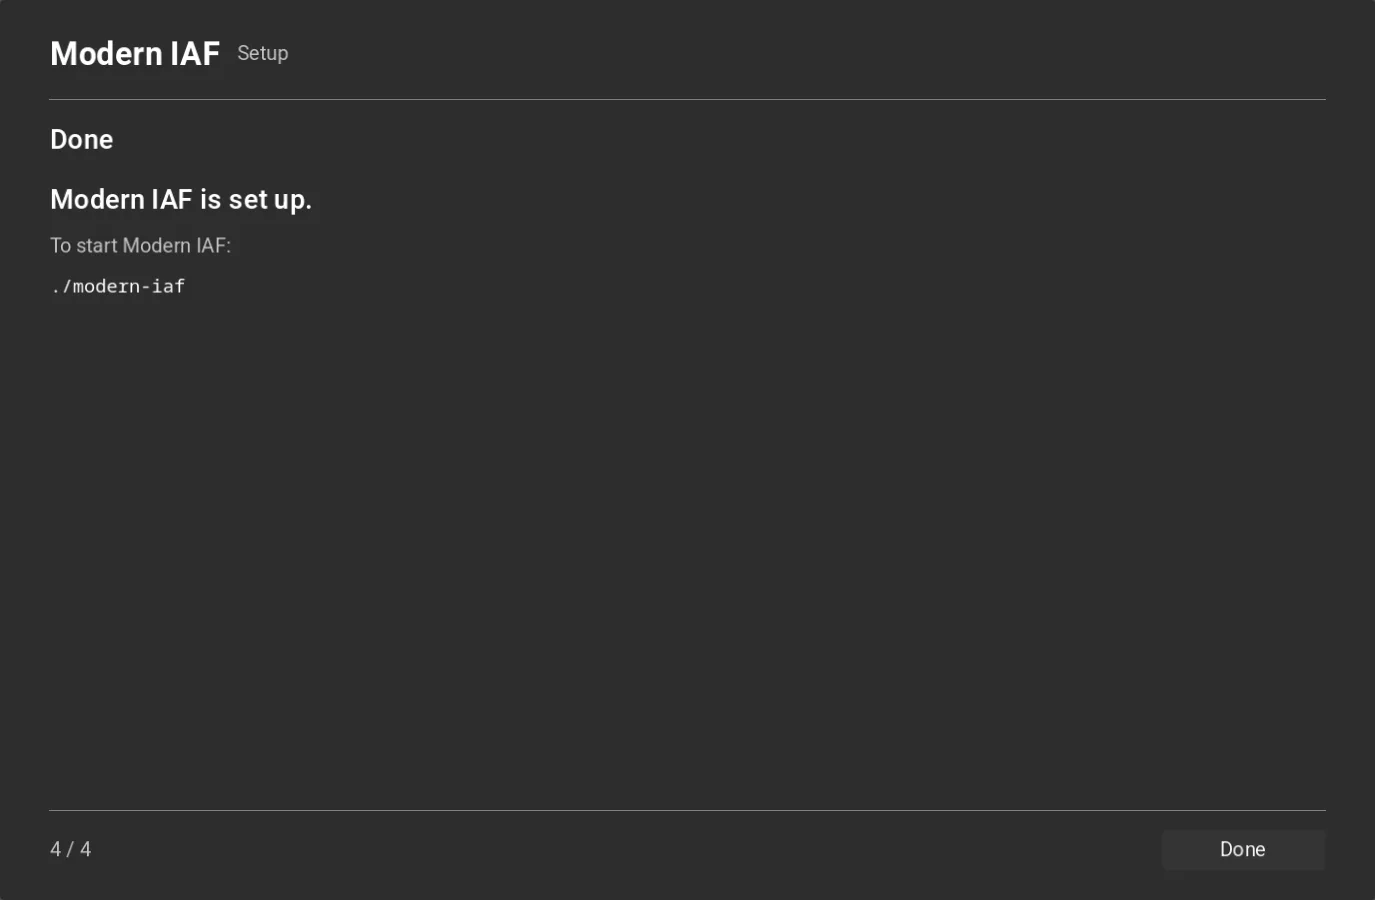
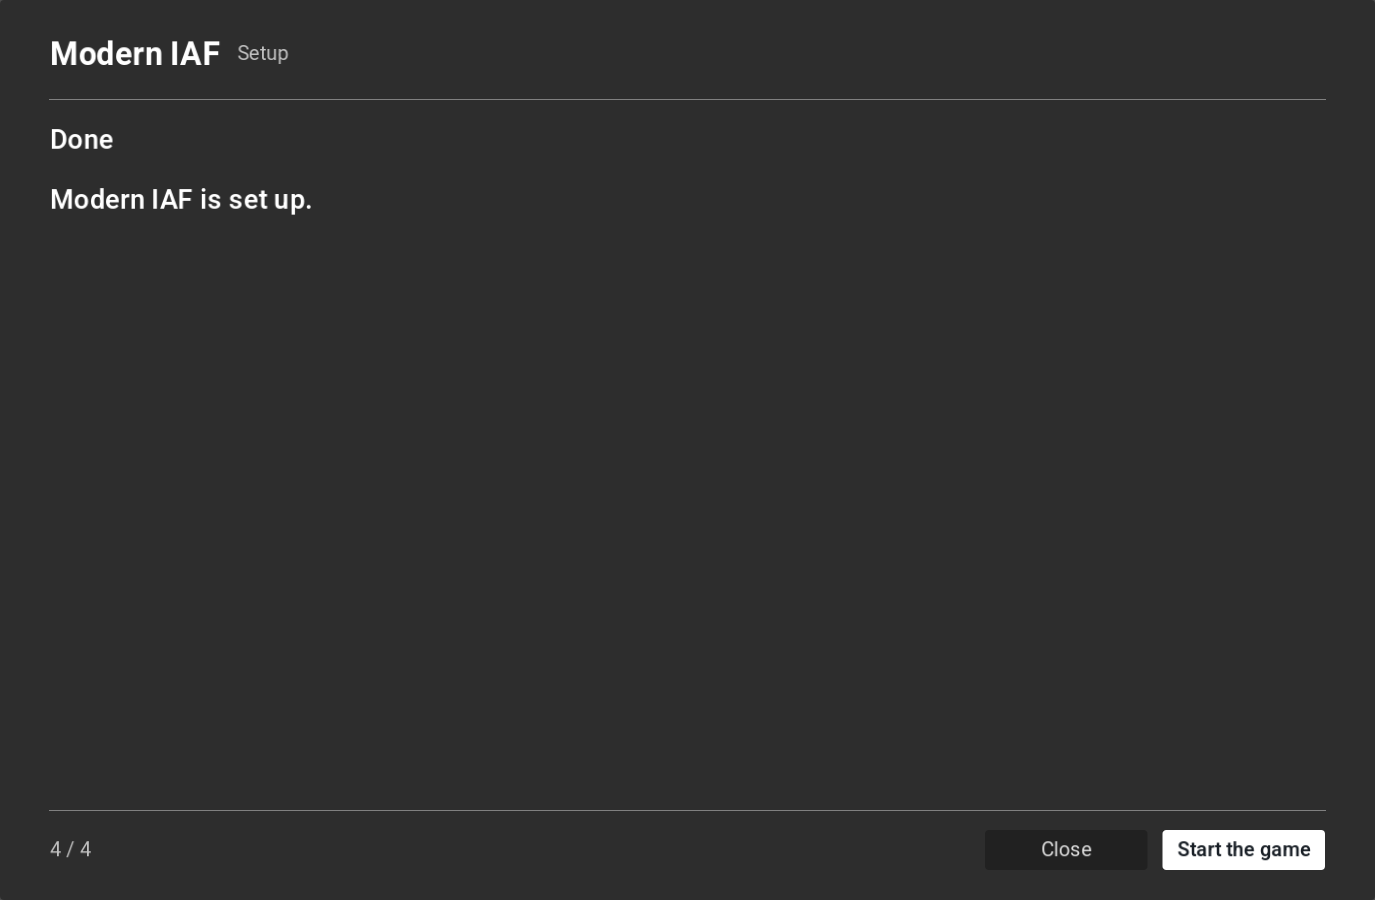
Modern IAF setup wizard: "Start the game" on the Done page, and an honest time left ("this step" / "all steps")
The user's Mac run: the terrain step's log said "about 9 min left" while the wizard said about 2:50 hours. The wizard
had no total. The 2:50 was the terrain step's own row: with the Survey chosen, the step's bar gives the download
about 9 % and the Survey's 2 m part a fixed 75 min (part_ends). The download ran at 5.3 MB/s, not the assumed 13.8,
so the row stretched the step's ~80 min still to come to about 2:50. The 9 min covered the download only (inferred
from the code).

Now the step's row says "this step". A new "all steps" line sums each unfinished step's seconds measured on earlier
runs (an up-to-date step counts 0), or shows "step N of M" when a step never ran on this machine (iaf_setup::time_left,
sim_expected). Each finished step writes its seconds to <step>.secs (temp file then rename; a corrupt one reads as
never measured), outside the stamp, so it never decides a rebuild or a download. tools/guide_shots.sh's assets
fingerprint skips .secs files. The original game's uninstall removes its install.secs and v1.1.secs.

The user: "setup should have 'start the game' instead of instructions how to start it". The Done page has a primary
"Start the game" / "להתחיל לשחק" button (a new Primary style in wizard_theme.gd) that opens the front end in the same
process with the project's window and full-screen setting, and "Close". The run instructions are gone.
tools/launch-wizard.sh sets SDL_JOYSTICK_MFI=0 on macOS, as ./modern-iaf does.
[…]

diff --git a/crates/iaf-setup/src/lib.rs b/crates/iaf-setup/src/lib.rs
@@ -22,7 +22,7 @@ mod steps;
 
 pub use checks::{CdKind, PackInfo, Tools, check_cd, check_pack, check_patch, python, scan, tools};
 pub use saved::{from_json, inputs_file, load_inputs, save_inputs, to_json};
-pub use sim::{SimCtx, SimInputs, sim_plan, sim_preview, sim_run, survey_sheets};
+pub use sim::{SimCtx, SimInputs, sim_expected, sim_plan, sim_preview, sim_run, survey_sheets};
 pub use steps::{COCKPITS, KEPT, OUTPUTS, disk_bytes, imagery_stale, script_guides, uninstall};
 
 /// The Hebrew content: the Hebrew retail CD (everything translated), or the preflight.us packs.
@@ -274,6 +274,35 @@ pub(crate) enum Outcome {
     Skipped(String),
 }
 
+/// One step of a running setup, for [`time_left`].
+pub struct Pace {
+    /// Ended (done, up to date, skipped, failed…).
+    pub finished: bool,
+    pub fraction: f32,
+    /// Its seconds as measured on an earlier run (0: up to date), `None` never measured.
+    pub expected: Option<f64>,
+}
+
+/// The whole run's time left (the wizard's "all steps").
+#[derive(Debug, PartialEq)]
+pub enum Left {
+    /// From the measured durations of the steps still to finish.
+    Secs(f64),
+    /// A step still to finish was never measured: step `.0` of `.1` instead of a guess.
+    Step(usize, usize),
+}
+
+/// [`Left`] for `steps`: each unfinished step's measured seconds times the part it has still to do.
+// ponytail: a plain sum, while independent steps run at once; the terrain step is nearly all of the time, so the
+// overlap is small. Upgrade: the longest path through the plan's graph.
+pub fn time_left(steps: &[Pace]) -> Left {
+    let open: Vec<&Pace> = steps.iter().filter(|p| !p.finished).collect();
+    match open.iter().map(|p| p.expected.map(|e| e * f64::from(1.0 - p.fraction))).sum::<Option<f64>>() {
+        Some(s) => Left::Secs(s),
+        None => Left::Step((steps.len() - open.len() + 1).min(steps.len()), steps.len()),
+    }
+}
+
 /// Runs `steps` (from `plan`) as a dependency graph: a step starts once every step it waits for is done or up to date;
 /// independent steps run at once; a required step waits for an optional one to end, not to succeed (an optional
 /// step's failure stops only itself and the optional steps after it). A step whose stamp matches is up to date unless `redo(id)` (redo all: `&|_| true`). A required step's failure
@@ -426,10 +455,17 @@ fn run_one(
         }
         s.clear()?;
     }
+    let t0 = std::time::Instant::now();
     match exec(step, pr)? {
         Outcome::Done => {
             if let Some(s) = &s {
                 s.write()?;
+                // Its measured duration, for the next run's time left (a failed write only costs the estimate);
+                // written then renamed, so a reader never sees half a number.
+                let (secs, tmp) = (s.secs_path(), s.secs_path().with_extension("secs.tmp"));
+                if std::fs::write(&tmp, format!("{:.0}\n", t0.elapsed().as_secs_f64())).is_ok() {
+                    let _ = std::fs::rename(&tmp, &secs);
+                }
                 record(&s.text);
             } else {
                 record("ran");
@@ -718,6 +754,17 @@ mod tests {
         assert_eq!(go(&he), ["arm", "briefings", "hebrew", "keys", "menu_he"]);
         assert!(go(&he).is_empty());
         std::fs::remove_dir_all(&dir).unwrap();
+    }
+
+    #[test]
+    fn time_left_needs_every_open_step_measured() {
+        let p = |finished, fraction, expected| Pace { finished, fraction, expected };
+        assert_eq!(
+            time_left(&[p(true, 1.0, None), p(false, 0.5, Some(600.0)), p(false, 0.0, Some(0.0))]),
+            Left::Secs(300.0)
+        );
+        assert_eq!(time_left(&[p(true, 1.0, None), p(false, 0.5, Some(600.0)), p(false, 0.0, None)]), Left::Step(2, 3));
+        assert_eq!(time_left(&[p(true, 1.0, None)]), Left::Secs(0.0));
     }
 
     #[test]

diff --git a/crates/iaf-godot/src/setup.rs b/crates/iaf-godot/src/setup.rs
@@ -19,6 +19,8 @@ struct Row {
     state: &'static str,
     detail: String,
     fraction: f32,
+    /// Its measured seconds (`iaf_setup::Pace`).
+    expected: Option<f64>,
 }
 
 #[derive(Default)]
@@ -329,12 +331,18 @@ impl IafSetup {
         let header = format!("Modern IAF setup: survey {survey}\nredo: {redo:?}");
         let prefix = format!("{}/", ctx.assets.display());
         self.launch(steps.clone(), &header, log_file, prefix, move |sink, cancel| {
-            iaf_setup::sim_run(&steps, &ctx, &|id| redo.iter().any(|r| r == "*" || r == id), sink, cancel)
+            let redo = |id: &str| redo.iter().any(|r| r == "*" || r == id);
+            let expected = iaf_setup::sim_expected(&steps, &ctx, &redo);
+            for (r, e) in sink.0.lock().unwrap().rows.iter_mut().zip(expected) {
+                r.expected = e;
+            }
+            iaf_setup::sim_run(&steps, &ctx, &redo, sink, cancel)
         });
         GString::new()
     }
 
-    /// {steps: [{id, title, required, state, detail, fraction}], log: new lines since the last poll, done, error}.
+    /// {steps: [{id, title, required, state, detail, fraction}], log: new lines since the last poll, done, error, left:
+    /// all steps' seconds left from measured durations (-1: not measured), step, of: step `step` of `of` instead}.
     #[func]
     fn poll(&mut self) -> VarDictionary {
         let mut sh = self.shared.lock().unwrap();
@@ -346,8 +354,24 @@ impl IafSetup {
                     .to_variant()
             })
             .collect();
+        let paces: Vec<iaf_setup::Pace> = sh
+            .rows
+            .iter()
+            .map(|r| iaf_setup::Pace {
+                finished: !matches!(r.state, "waiting" | "running"),
+                fraction: r.fraction,
+                expected: r.expected,
+            })
+            .collect();
+        let (left, step, of) = match iaf_setup::time_left(&paces) {
+            iaf_setup::Left::Secs(s) => (s, 0, 0),
+            iaf_setup::Left::Step(n, m) => (-1.0, n as i64, m as i64),
+        };
         let log: PackedStringArray = sh.log.drain(..).map(|l| GString::from(l.as_str())).collect();
-        vdict! { "steps" => &steps, "log" => &log, "done" => sh.done, "error" => sh.error.as_str() }
+        vdict! {
+            "steps" => &steps, "log" => &log, "done" => sh.done, "error" => sh.error.as_str(),
+            "left" => left, "step" => step, "of" => of,
+        }
     }
 
     /// Stops the run: the running steps end at their next item.
@@ -381,6 +405,7 @@ impl IafSetup {
                     state: "waiting",
                     detail: String::new(),
                     fraction: 0.0,
+                    expected: None,
                 })
                 .collect(),
             ..Default::default()

diff --git a/crates/iaf-setup/src/sim.rs b/crates/iaf-setup/src/sim.rs
@@ -109,6 +109,21 @@ pub fn sim_preview(steps: &[Step], ctx: &SimCtx) -> Vec<(&'static str, bool)> {
     crate::preview_with(steps, &|s| stamp::sim_of(s, ctx))
 }
 
+/// Each step's expected seconds for a run of `steps` (the wizard's "all steps" time left): 0 when up to date and not
+/// redone, else the seconds its last finished run took (`Stamp::secs_path`), `None` when it never ran here.
+pub fn sim_expected(steps: &[Step], ctx: &SimCtx, redo: &Redo) -> Vec<Option<f64>> {
+    sim_preview(steps, ctx)
+        .into_iter()
+        .map(|(id, up)| {
+            if up && !redo(id) {
+                return Some(0.0);
+            }
+            let secs = stamp::sim_stamp_path(&ctx.assets, id).with_extension("secs");
+            std::fs::read_to_string(secs).ok()?.trim().parse().ok()
+        })
+        .collect()
+}
+
 /// Runs one step; `redo`: the player asked to run it although it is up to date.
 fn exec(step: &Step, ctx: &SimCtx, redo: bool, pr: &dyn Progress, cancel: &AtomicBool) -> Result<Outcome> {
     let (data, assets) = (ctx.data(), ctx.assets.as_path());
@@ -224,6 +239,8 @@ mod tests {
         std::fs::create_dir_all(dir.join("converted/iaf-2026/missions")).unwrap();
         let st = go(&ctx);
         assert!(st.iter().all(|(_, s)| *s == State::UpToDate), "{st:?}");
+        assert!(sim_expected(&steps, &ctx, &|_| false).iter().all(|e| *e == Some(0.0)), "up to date: no time");
+        assert!(sim_expected(&steps, &ctx, &|_| true).iter().all(|e| e.is_some()), "each run's seconds were recorded");
         assert!(sim_preview(&steps, &ctx).iter().all(|(_, up)| *up));
         let survey = SimCtx { inputs: SimInputs { survey: true }, ..ctx };
         std::fs::create_dir_all(survey_dir(&dir)).unwrap();

diff --git a/crates/iaf-setup/src/stamp.rs b/crates/iaf-setup/src/stamp.rs
@@ -213,6 +213,11 @@ impl Stamp {
             _ => Ok(()),
         }
     }
+    /// Beside the stamp: the seconds the step's last run took (the setup wizard's "all steps" time left). Not part of
+    /// the stamp, so it never decides what runs.
+    pub fn secs_path(&self) -> PathBuf {
+        self.path.with_extension("secs")
+    }
     pub fn write(&self) -> Result<()> {
         if let Some(d) = self.path.parent() {
             std::fs::create_dir_all(d)?;
@@ -326,6 +331,11 @@ pub(crate) fn of(step: &Step, ctx: &Ctx) -> Result<Option<Stamp>> {
     Ok(Some(Stamp { path: stamp, text, output: out }))
 }
 
+/// Where Modern IAF's step `id` keeps its stamp.
+pub(crate) fn sim_stamp_path(assets: &Path, id: &str) -> PathBuf {
+    assets.join("converted/iaf-2026").join(format!("{id}.stamp"))
+}
+
 /// The stamp of one of Modern IAF's steps (`sim::sim_plan`), in `converted/iaf-2026/`: the code, the authored data it
 /// reads; for the terrain, what `iaf-sim terrain` itself compares (the box and the Survey sheets' names and sizes); for
 /// the airbases, the OpenStreetMap extracts' hashes.
@@ -366,8 +376,7 @@ pub(crate) fn sim_of(step: &Step, ctx: &SimCtx) -> Result<Option<Stamp>> {
         // The repo's path is not part of what the data is.
         text += &describe_under(p, &ctx.repo)?;
     }
-    let stamp = a.join("converted/iaf-2026").join(format!("{}.stamp", step.id));
-    Ok(Some(Stamp { path: stamp, text, output: Some(out) }))
+    Ok(Some(Stamp { path: sim_stamp_path(a, step.id), text, output: Some(out) }))
 }
 
 #[cfg(test)]

diff --git a/crates/iaf-setup/src/steps.rs b/crates/iaf-setup/src/steps.rs
@@ -22,9 +22,11 @@ pub const COCKPITS: [&str; 9] = ["f16", "f15", "f4-2000", "phantom", "cfir", "la
 pub const OUTPUTS: &[&str] = &[
     "install",
     "install.stamp",
+    "install.secs",
     "v1.0",
     "v1.1",
     "v1.1.stamp",
+    "v1.1.secs",
     "patch",
     "converted",
     "packs-none",

diff --git a/iaf-2026/docs/setup.md b/iaf-2026/docs/setup.md
@@ -42,12 +42,35 @@ large screen by its UI scale (the containers stretch; nothing has a fixed page s
    disk use and time. The Survey choice needs the 79 sheet ZIPs (data.gov.il, 17 GB) in
    `assets/source/imagery/mapi2015/`; without them the page says so and keeps Sentinel-2.
 3. **Install**: one row per step with its progress bar and state. Before a run the rows say which steps are up to
-   date (a background check); during a run a long step shows the time left. Back becomes Cancel: the running steps
+   date (a background check); during a run the page shows two estimates (see "Time left" below). Back becomes Cancel: the running steps
    stop at their next item. "Show the log" opens the log; the whole run is also in `assets/logs/modern-iaf-setup-<date>-<time>.log`.
    "Redo every step" runs the steps that are up to date too; for the terrain that is a full rebuild (its finished
    units' marks are dropped). Back from Install forgets the finished run, so other choices can be installed; a
    language change keeps it.
-4. **Done**: one line, how to start the sim (`./modern-iaf`).
+4. **Done**: whether the sim is set up, with two buttons. **Start the game** ("להתחיל לשחק") opens the sim's front
+   end in the same process, as `./modern-iaf` starts it: the project's own window size (the wizard's 1100×720 at the
+   UI scale goes), the player's full-screen choice, the joystick and keys from the files the run just built
+   (`Settings.apply_devices()`), then `Settings.front_end_scene()`. The extension is built and the project imported
+   already, because the wizard runs in the same project. **Close** ("סגירה") quits.
+
+### Time left
+The Install page has two estimates, labelled so they are not mixed up:
+
+- **This step** ("שלב זה"), in a running step's row: the step's own progress against the time it has run so far.
+  The terrain step's bar weighs its parts by expected seconds (§3), so a slow download stretches the whole step's
+  estimate. The terrain step's log line "Sentinel-2 tiles: … about 9 min left" covers the download only.
+- **All steps** ("כל השלבים"), under the status line: the steps still to finish, each by the seconds its last
+  finished run took on this computer, times the part it still has to do. A step up to date counts 0. When a step
+  still to finish never ran here, the line shows the step count instead of a guess ("All steps: step 4 of 7").
+  Each step that finishes records its seconds in `assets/converted/iaf-2026/<step>.secs`, beside its stamp
+  (`iaf_setup::time_left`, `sim_expected`). The seconds are not part of the stamp, so they never decide what runs
+  or downloads. Steps that run at once are added up, so the estimate can be high when two long steps overlap.
+
+Why the Mac run (2026-11-09) showed "about 2:50 hours left" while the log said "about 9 min left": the 2:50 was
+the terrain row's estimate (there was no total yet). With the Survey chosen, the terrain bar gives the download
+about 9 % of the step (13.8 MB/s assumed, `part_ends`) and the Survey's 2 m 75 minutes. The download ran at
+5.3 MB/s, so the bar moved at less than half the assumed pace, and the row stretched the step's 80 minutes still to
+come to about 2:50 hours (inferred from `part_ends` and the log line). The 9 minutes were the download alone.
 
 The **Attributions** open from Welcome as a modal dialog over the page (Close or Esc closes it; it scrolls): every
 source with its licence line: the Copernicus DEM's two lines word for word ([terrain.md](terrain.md) §5), ESA
@@ -69,7 +92,7 @@ The pages say only what the user decides or must know ([plan.md](plan.md) Rules)
 ### Look
 The look is one file, `iaf-2026/setup/wizard_theme.gd`: Godot's default dark theme with Heebo
 (`iaf-2026/data/fonts/`, SIL OFL 1.1) and the text kinds the pages ask for by name ("Heading", "Muted", "Note",
-"Readout", "Code", "Card"). A new look replaces that file only. The strings are `iaf-2026/setup/strings_en.json` and
+"Readout", "Card", "Primary": Done's Start the game, a white button with dark bold text). A new look replaces that file only. The strings are `iaf-2026/setup/strings_en.json` and
 `strings_he.json` (formal, gender-neutral Hebrew).
 
 ## 3. The steps

diff --git a/iaf-2026/docs/status.md b/iaf-2026/docs/status.md
@@ -90,7 +90,9 @@ What works and what is open, by work item ([plan.md](plan.md)). Newest first.
 - **[A3](plan.md#a3-the-setup-wizard), the setup wizard (2026-11-03):** `./modern-iaf-setup` opens the wizard; it builds the terrain,
   the airbases, the units and weapons, the sounds and voices and the training missions as a step graph with stamps (a
   second run is all up to date), in English and Hebrew ([setup.md](setup.md)). Its look is Godot's default theme until
-  the user's next round.
+  the user's next round. Since 2026-11-09 Done's **Start the game** opens the front end in the same process
+  (Close quits), and Install shows "this step" in the running row and "all steps" from the durations measured on
+  earlier runs, or the step count before any run ([setup.md](setup.md) "Time left").
 - **[B3](plan.md#b3-scenery-roads-and-inland-water), scenery and inland water (2026-11-03):** `iaf-sim scenery` builds the original's buildings, trees, road
   layer and city lights in the sim's UTM theatre from the shared open-data cache ([scenery.md](scenery.md)); the sim
   shows them over its own ground when Scenery is on (Preferences → Graphics → "Buildings and trees": Off / On /
